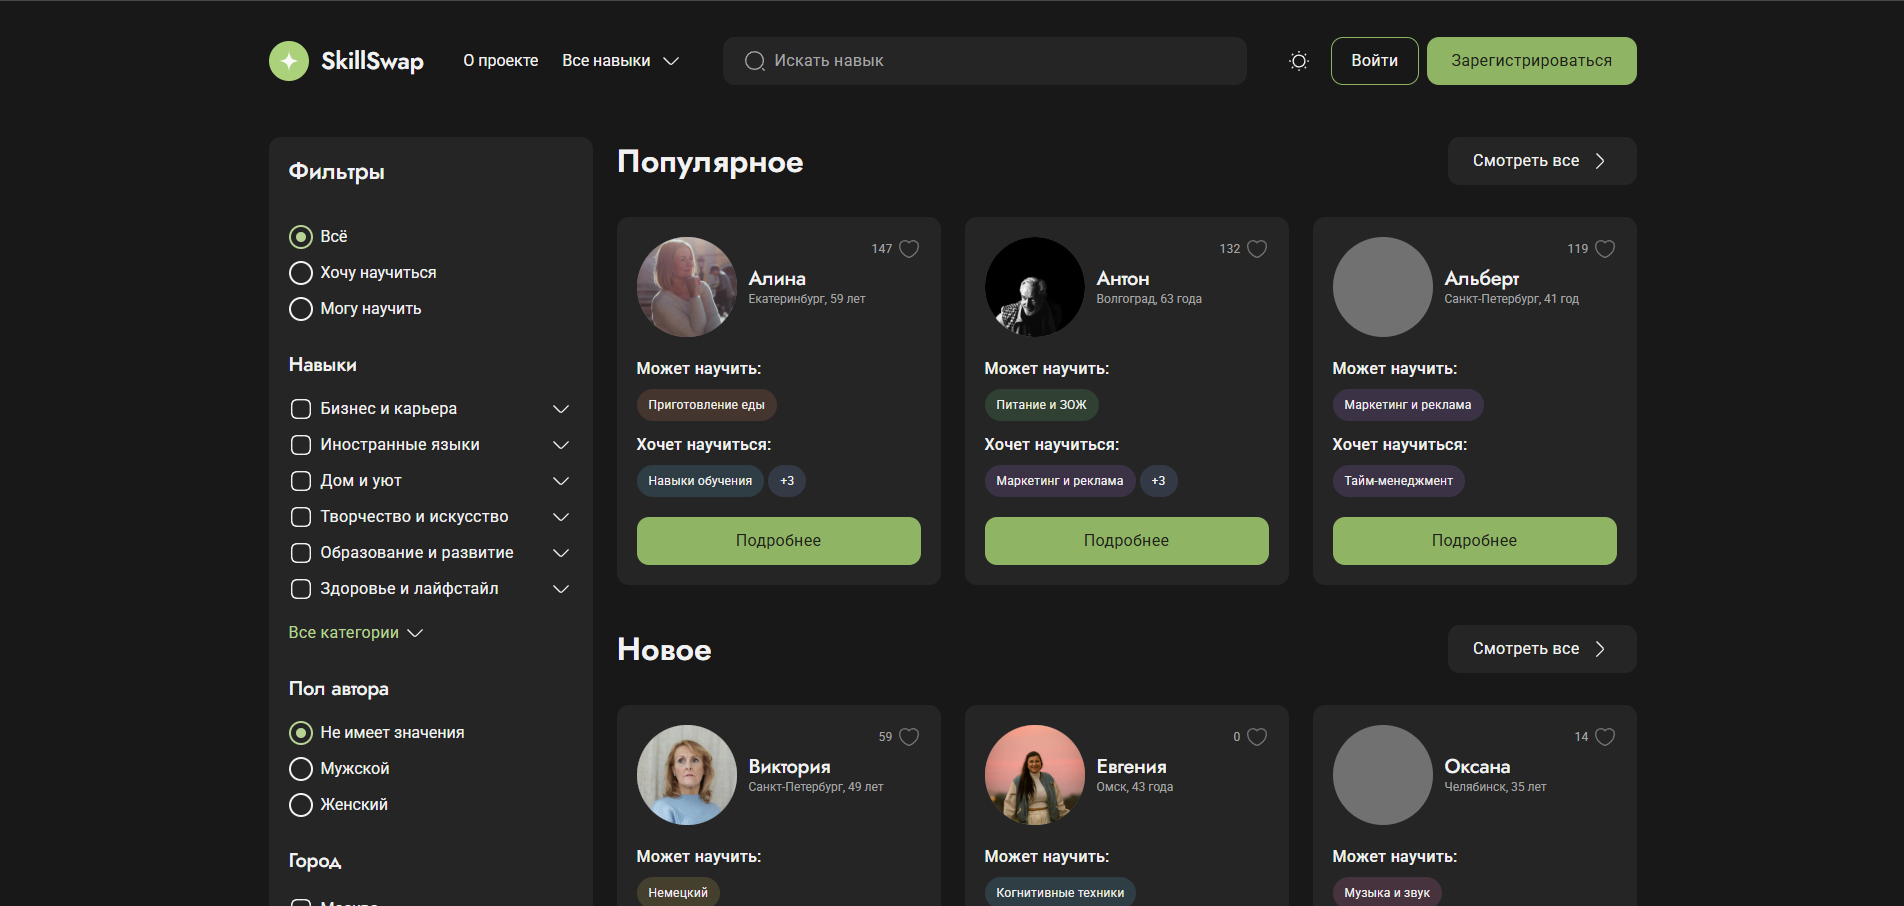
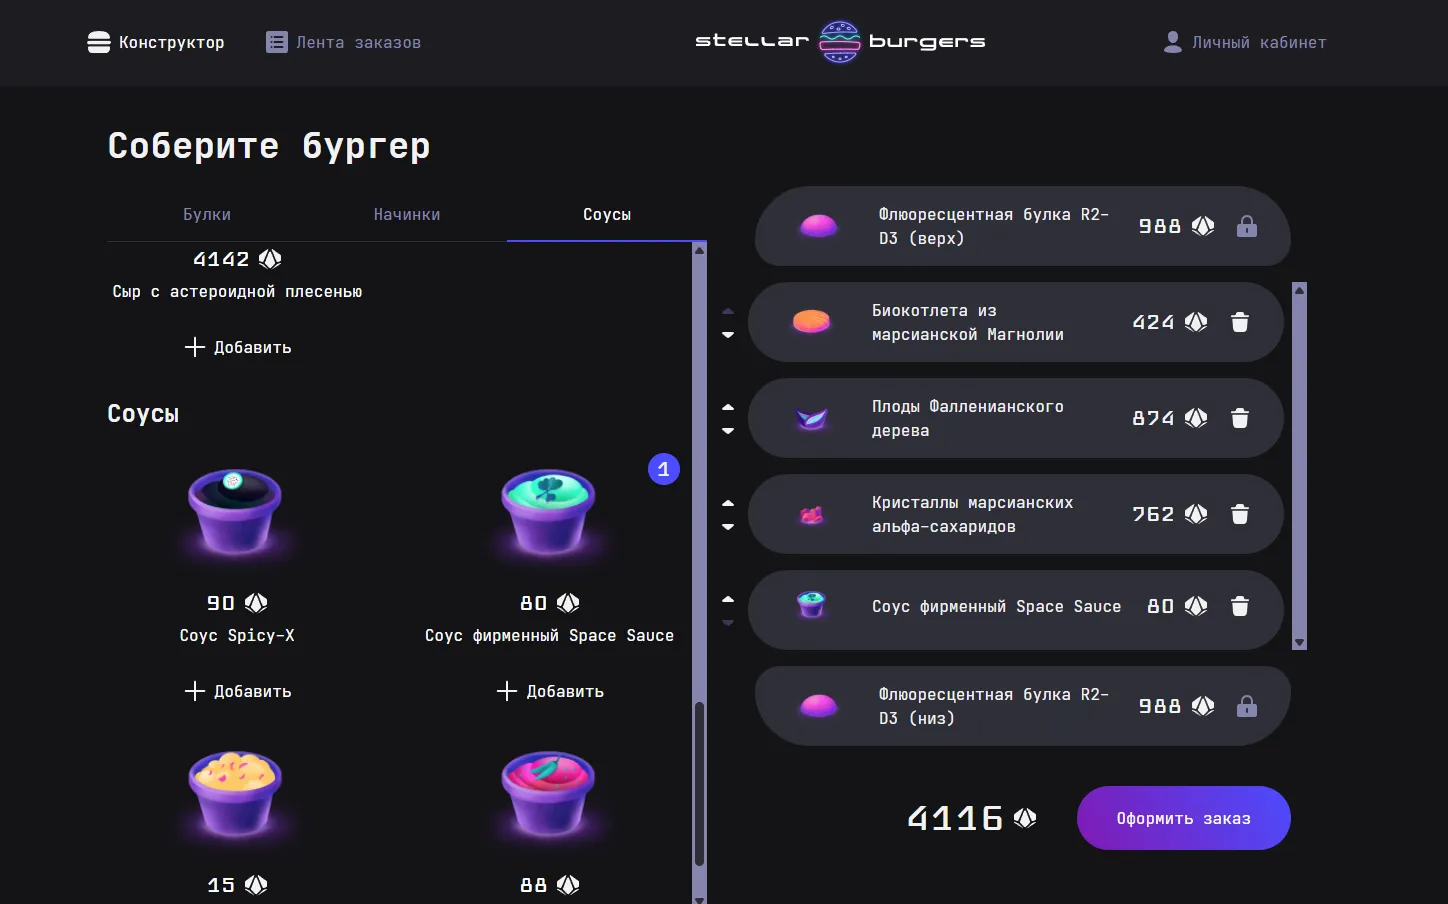
feat: add footer and update project previews

diff --git a/src/content/portfolio.ts b/src/content/portfolio.ts
@@ -23,8 +23,57 @@ export const content: Record<Language, PortfolioContent> = {
       projects: 'Projects',
       skills: 'Skills',
     },
-    footer:
-      'Designed in Figma and built in Visual Studio Code with React, TypeScript, Vite and CSS Modules. Deployed on GitHub Pages. The source code is available on GitHub.',
+    footer: [
+      { id: 'design-intro', text: 'Designed in ' },
+      {
+        id: 'figma',
+        text: 'Figma',
+        href: 'https://www.figma.com/',
+      },
+      { id: 'editor-intro', text: ' and coded in ' },
+      {
+        id: 'vscode',
+        text: 'Visual Studio Code',
+        href: 'https://code.visualstudio.com/',
+      },
+      { id: 'stack-intro', text: '. Built with ' },
+      {
+        id: 'react',
+        text: 'React',
+        href: 'https://react.dev/',
+      },
+      { id: 'typescript-separator', text: ', ' },
+      {
+        id: 'typescript',
+        text: 'TypeScript',
+        href: 'https://www.typescriptlang.org/',
+      },
+      { id: 'vite-separator', text: ', ' },
+      {
+        id: 'vite',
+        text: 'Vite',
+        href: 'https://vite.dev/',
+      },
+      { id: 'css-modules-separator', text: ' and ' },
+      {
+        id: 'css-modules',
+        text: 'CSS Modules',
+        href: 'https://github.com/css-modules/css-modules',
+      },
+      { id: 'deploy-intro', text: '. Deployed on ' },
+      {
+        id: 'github-pages',
+        text: 'GitHub Pages',
+        href: 'https://pages.github.com/',
+      },
+      { id: 'source-intro', text: '. Source code is available on ' },
+      {
+        id: 'github-source',
+        text: 'GitHub',
+        href: 'https://github.com/alexeydev42/alexeydev42.github.io',
+      },
+      { id: 'footer-period', text: '.' },
+    ],
   },
   ru: {
     hero: {
@@ -48,8 +97,57 @@ export const content: Record<Language, PortfolioContent> = {
       projects: 'Проекты',
       skills: 'Навыки',
     },
-    footer:
-      'Макет сделан в Figma, сайт написан в Visual Studio Code на React и TypeScript с Vite и CSS Modules и опубликован на GitHub Pages. Исходный код доступен на GitHub.',
+    footer: [
+      { id: 'design-intro', text: 'Макет сделан в ' },
+      {
+        id: 'figma',
+        text: 'Figma',
+        href: 'https://www.figma.com/',
+      },
+      { id: 'editor-intro', text: ', код написан в ' },
+      {
+        id: 'vscode',
+        text: 'Visual Studio Code',
+        href: 'https://code.visualstudio.com/',
+      },
+      { id: 'stack-intro', text: '. Сайт собран на ' },
+      {
+        id: 'react',
+        text: 'React',
+        href: 'https://react.dev/',
+      },
+      { id: 'typescript-separator', text: ' и ' },
+      {
+        id: 'typescript',
+        text: 'TypeScript',
+        href: 'https://www.typescriptlang.org/',
+      },
+      { id: 'vite-separator', text: ' с ' },
+      {
+        id: 'vite',
+        text: 'Vite',
+        href: 'https://vite.dev/',
+      },
+      { id: 'css-modules-separator', text: ' и ' },
+      {
+        id: 'css-modules',
+        text: 'CSS Modules',
+        href: 'https://github.com/css-modules/css-modules',
+      },
+      { id: 'deploy-intro', text: '. Опубликован на ' },
+      {
+        id: 'github-pages',
+        text: 'GitHub Pages',
+        href: 'https://pages.github.com/',
+      },
+      { id: 'source-intro', text: '. Исходный код доступен на ' },
+      {
+        id: 'github-source',
+        text: 'GitHub',
+        href: 'https://github.com/alexeydev42/alexeydev42.github.io',
+      },
+      { id: 'footer-period', text: '.' },
+    ],
   },
 }
 

diff --git a/src/components/Footer/Footer.tsx b/src/components/Footer/Footer.tsx
@@ -1,0 +1,33 @@
+import { Fragment } from 'react'
+import type { FooterPart } from '../../content/types'
+import styles from './Footer.module.css'
+
+interface FooterProps {
+  content: FooterPart[]
+}
+
+export const Footer = ({ content }: FooterProps) => {
+  return (
+    <footer className={styles.footer}>
+      <p className={styles.text}>
+        {content.map((part) => {
+          if (part.href) {
+            return (
+              <a
+                className={styles.link}
+                href={part.href}
+                target="_blank"
+                rel="noopener noreferrer"
+                key={part.id}
+              >
+                {part.text}
+              </a>
+            )
+          }
+
+          return <Fragment key={part.id}>{part.text}</Fragment>
+        })}
+      </p>
+    </footer>
+  )
+}

diff --git a/src/components/Footer/Footer.module.css b/src/components/Footer/Footer.module.css
@@ -1,0 +1,24 @@
+.footer {
+  max-width: 560px;
+}
+
+.text {
+  font-size: var(--font-size-caption);
+  line-height: var(--line-height-body);
+  color: var(--color-text-secondary);
+}
+
+.link {
+  font-weight: var(--font-weight-medium);
+  color: var(--color-text-primary);
+  transition:
+    color 0.2s ease,
+    text-shadow 0.2s ease;
+}
+
+@media (hover: hover) and (pointer: fine) {
+  .link:hover {
+    color: var(--color-accent);
+    text-shadow: 0 0 8px rgb(71 209 232 / 35%);
+  }
+}

diff --git a/src/App.tsx b/src/App.tsx
@@ -7,6 +7,7 @@ import { Projects } from './components/Projects/Projects'
 import { Skills } from './components/Skills/Skills'
 
 import styles from './App.module.css'
+import { Footer } from './components/Footer/Footer'
 
 const LANGUAGE_STORAGE_KEY = 'portfolio-language'
 
@@ -56,6 +57,7 @@ function App() {
           skillGroups={skillGroups}
           language={language}
         />
+        <Footer content={currentContent.footer} />
       </main>
     </div>
   )

diff --git a/src/content/types.ts b/src/content/types.ts
@@ -47,10 +47,16 @@ export interface SectionTitles {
   skills: string
 }
 
+export interface FooterPart {
+  id: string
+  text: string
+  href?: string
+}
+
 export interface PortfolioContent {
   hero: HeroContent
   navigation: NavItem[]
   about: string[]
   sectionTitles: SectionTitles
-  footer: string
+  footer: FooterPart[]
 }

diff --git a/src/components/Hero/Hero.module.css b/src/components/Hero/Hero.module.css
@@ -54,6 +54,13 @@
   text-shadow: 0 0 10px rgb(71 209 232 / 50%);
 }
 
+@media (hover: none) and (pointer: coarse) {
+  .languageSwitcher:focus .inactiveLanguage {
+    color: var(--color-text-secondary);
+    text-shadow: none;
+  }
+}
+
 .identity {
   max-width: 420px;
 }
